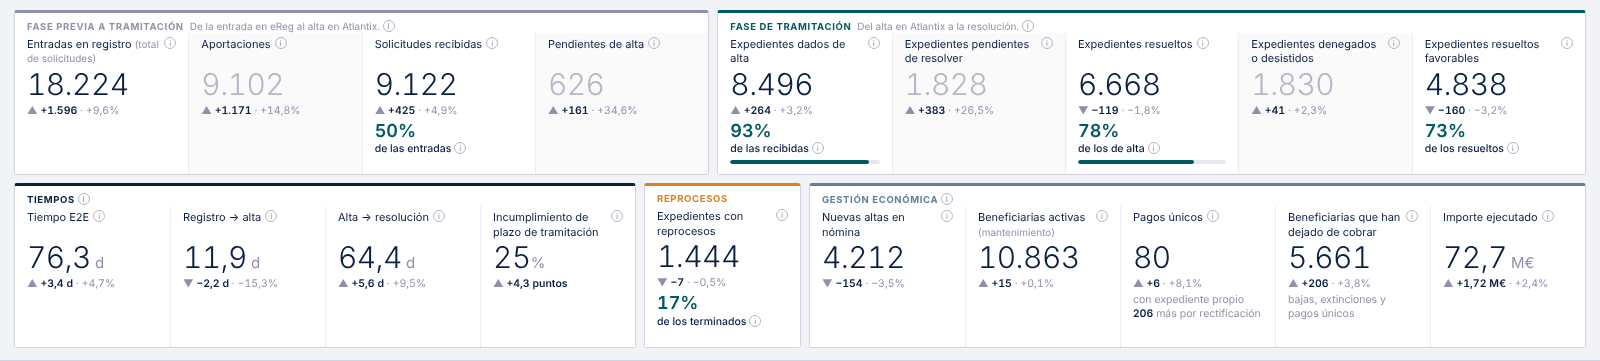
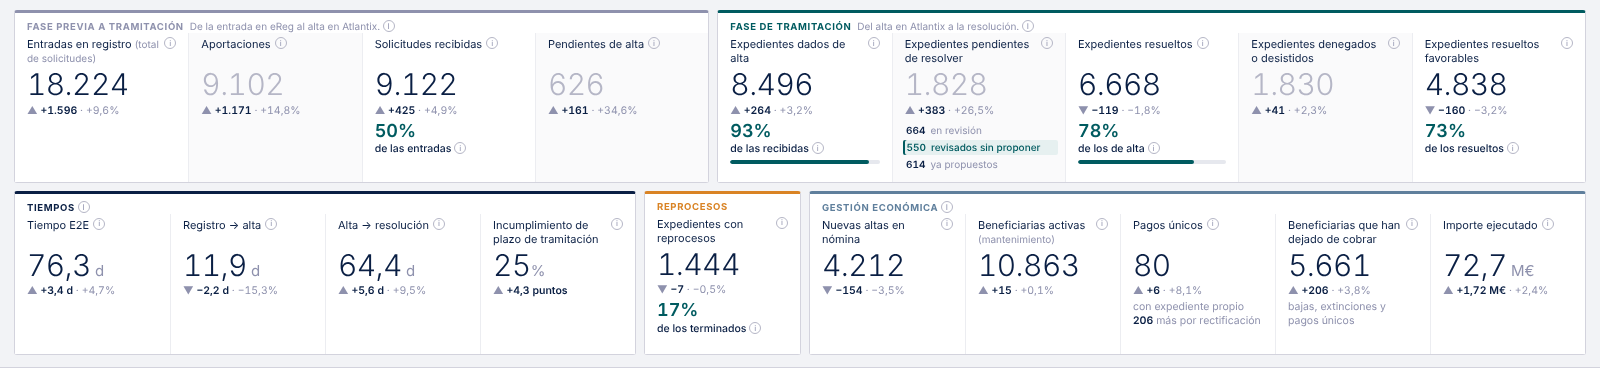
Mockup natalidad v23: pendientes de resolver en tres grupos
- Cabecera: en revisión, revisados de conformidad sin proponer (destacado) y ya propuestos;
  el aviso del grupo destacado da la foto a la fecha de corte y lo que costaría proponerlos
  todos en la próxima nómina; al pulsarlo se abre la tabla de expedientes sin actividad filtrada
- Explorador de procesos y comparativa de periodos con los mismos tres grupos
- Hoja de validación al día; cabecera de la tabla sin actividad en dos filas

Claude-Session: https://claude.ai/code/session_012PCcGQXYr4PR8xb2pBrhox

diff --git a/mockups/MockupNatalidad_v23.html b/mockups/MockupNatalidad_v23.html
@@ -1357,6 +1357,19 @@ table.eco-t tr.sub td{font-weight:600;border-top:1px solid #E3E5EB;}
 .tbl-hdr .susp-ctl .resp-tabs{margin-left:0;}
 .tag-ley{display:inline-block;margin-left:6px;font-size:9.5px;font-weight:700;color:#8A5200;background:#FFF4E5;border:1px solid #F3D9B1;border-radius:2px;padding:0 5px;white-space:nowrap;}
 #tSusp td.mh{color:var(--cgy);font-size:10.5px;margin-left:3px;}
+/* pendientes de resolver en tres grupos */
+.kt-gr{margin-top:6px;display:flex;flex-direction:column;gap:2px;font-size:10px;line-height:1.3;color:var(--cgy);}
+.kt-gr .r{display:grid;grid-template-columns:var(--nw, 28px) 1fr;column-gap:5px;align-items:baseline;padding:1px 5px 1px 2px;margin:0 -5px 0 -2px;border-radius:2px;}
+.kt-gr .r b{font-weight:600;color:var(--cnavy);font-variant-numeric:tabular-nums;text-align:right;}
+.kt-gr .r.on{background:#E6F0F0;color:var(--cteal);font-weight:500;cursor:pointer;box-shadow:inset 2px 0 0 var(--cteal);}
+.kt-gr .r.on b{color:var(--cteal);}
+.kt-gr .r.on:hover{background:#D6E8E8;}
+table.cmp-t tr.sub td.nm{padding-left:22px;color:var(--cgy);}
+table.cmp-t tr.sub td{font-size:11px;}
+.pg-p.on{fill:var(--cteal);font-weight:500;}
+#tblSusp .tbl-hdr{display:grid;grid-template-columns:minmax(0,1fr) auto;align-items:center;row-gap:8px;}
+#tblSusp .tbl-hdr .susp-ctl{grid-column:1 / -1;grid-row:2;margin-left:0;justify-content:flex-start;}
+#tblSusp #suspCSV{grid-column:2;grid-row:1;}
 </style>
 </head>
 <body>
@@ -2085,6 +2098,10 @@ function sitOf(c, i, T){
   return 'ge1';
 }
 const respOf = (c, i, s) => SIT[s].r;
+/* grupos de «Expedientes pendientes de resolver» (reunión del 27/10): en revisión o requerimiento, revisados de
+   conformidad sin proponer y ya propuestos (terceros, Intervención o firma) */
+const grupoSit = s => s === 'rok' || s === 'rokU' ? 'rok' : SIT[s].f === 'ges' || SIT[s].f === 'ent' ? 'rev' : 'prop';
+const grupoPend = c => grupoSit(sitOf(c, idxAt(c, P1), P1));
 /* nómina en la que la última propuesta favorable hasta el evento i propone pagar */
 const nPropAt = (c, i) => { for (let j = i; j >= 0; j--) if (c.a[j] === 'PF') return c.x[j]; return c.nProp; };
 /* D_COM positivo de un alta: gestión económica lo hace tras la resolución, a final del mes anterior a su primera nómina */
@@ -2164,7 +2181,11 @@ function calcCabecera(){
   const K = { rec:0, recPrev:0, apo:0, com:0, gen:0, dupT:0, anu:0, ent:0, entOld:0, ges:0, req:0, pf:0,
     pfImp:{atr:0, mes:0, resto:0}, pfMes:{}, pfN:{}, fav:0, favCau:{nom:0, ter:0, adm:0, cre:0}, susp:0, abiertos:0, abiertos0:0,
     ant:null, res:{con:0, den:0, des:0}, fin:0, e2e:[], tram:[], pp:0, ppOk:0, superan:0,
-    tramit:0, retr:0, rReq:0, rTer:0, rInt:0, nat:0, dupC:0, pdte:0, alta:0, resC:0, dd:0, favC:0, favPag:0, tA:[] };
+    tramit:0, retr:0, rReq:0, rTer:0, rInt:0, nat:0, dupC:0, pdte:0, alta:0, resC:0, dd:0, favC:0, favPag:0, tA:[],
+    curG:{rev:0, rok:0, prop:0},
+    /* revisados sin proponer a la fecha de corte, sean de la solicitud que sean, y lo que costaría proponerlos todos en la
+       primera nómina a la que aún pueden llegar (el fichero de terceros se genera el día 7 del mes anterior) */
+    rok:{n:0, q:0, n30:0, fuera:0, atr:0, mes:0, Nn:dateOf(P1).getUTCDate() < 7 ? ymOf(P1) + 1 : ymOf(P1) + 2} };
   for (const c of VIS){ if (!okc(c)) continue;
     if (c.fin !== undefined && c.fin < Q0) continue;            /* cerrado antes de todo lo que se mira */
     if (enP(c.reg)) K.rec++; else if (c.reg >= Q0 && c.reg < P0) K.recPrev++;
@@ -2174,6 +2195,7 @@ function calcCabecera(){
       else { K.nat++;
         if (!(c.alta <= P1)) K.pdte++;
         else { K.alta++;
+          if (!(c.resol <= P1)) K.curG[grupoPend(c)]++;
           if (c.resol <= P1){ K.resC++; if (c.res === 'con'){ K.favC++; if (c.fin <= P1){ K.favPag++; if (c.unico) K.unCoh = (K.unCoh || 0) + 1; else { K.altaNom = (K.altaNom || 0) + 1; K.atrMesCoh = (K.atrMesCoh || 0) + c.P - c.D; } } } else { K.dd++; if (c.res === 'den') K.denC = (K.denC || 0) + 1; else K.desC = (K.desC || 0) + 1; } } } }
     }
     if (c.resol !== undefined && enP(c.resol)){ K.tA.push(c.alta - c.reg); if (c.resol - c.reg > F.plazo) K.fuera = (K.fuera || 0) + 1; }
@@ -2190,6 +2212,8 @@ function calcCabecera(){
           const x = costeNomina(c, np, Math.floor(np/12)*12 + 11); K.pfImp.atr += x.atr; K.pfImp.mes += x.mes; K.pfImp.resto += x.resto;
           K.pfMes[np] = (K.pfMes[np] || 0) + x.atr + x.mes + x.resto; K.pfN[np] = (K.pfN[np] || 0) + 1; } }
       const quieto = P1 - c.t[i], edad = P1 - c.reg;
+      if (grupoSit(s) === 'rok'){ const r = K.rok, x = costeNomina(c, r.Nn, r.Nn);
+        r.n++; r.q += quieto; if (quieto > 30) r.n30++; if (s === 'rokU') r.fuera++; r.atr += x.atr; r.mes += x.mes; }
       if (quieto > F.umbral) K.susp++;
       if (!K.ant || edad > K.ant.edad) K.ant = { c, edad, quieto, f, s };
       if (!(c.pp <= P1) && edad > F.plazo) K.superan++;
@@ -2538,12 +2562,12 @@ function nominaPeriodo(NM_){
 /* valor numérico de cada indicador de la cabecera */
 function valores(K, NM_){
   const o = nominaPeriodo(NM_), resT = K.e2e.length;
-  return { ent:K.nat + K.otros + K.dupC, apo:K.otros + K.dupC, nat:K.nat, pdte:K.pdte, alta:K.alta, cur:K.alta - K.resC, resC:K.resC, dd:K.dd, favC:K.favC,
+  return { ent:K.nat + K.otros + K.dupC, apo:K.otros + K.dupC, nat:K.nat, pdte:K.pdte, alta:K.alta, cur:K.alta - K.resC, curRev:K.curG.rev, curRok:K.curG.rok, curProp:K.curG.prop, resC:K.resC, dd:K.dd, favC:K.favC,
     e2e:resT ? media(K.e2e) : null, tA:K.tA.length ? media(K.tA) : null, tram:K.tram.length ? media(K.tram) : null,
     fuera:resT ? pc(K.fuera || 0, resT) : null, retr:K.retr, retrP:K.tramit ? pc(K.retr, K.tramit) : null,
     altaNom:K.altaNom || 0, ben:o.nb ? o.nb.ben : null, unCoh:K.unCoh || 0, rects:o.rects, dejan:o.nb ? o.inact + o.unicos : null, ejec:o.ejec };
 }
-const FMT = { ent:'n', apo:'n', nat:'n', pdte:'n', alta:'n', cur:'n', resC:'n', dd:'n', favC:'n', e2e:'d', tA:'d', tram:'d', fuera:'p', retr:'n', retrP:'p',
+const FMT = { ent:'n', apo:'n', nat:'n', pdte:'n', alta:'n', cur:'n', curRev:'n', curRok:'n', curProp:'n', resC:'n', dd:'n', favC:'n', e2e:'d', tA:'d', tram:'d', fuera:'p', retr:'n', retrP:'p',
   altaNom:'n', ben:'n', unCoh:'n', rects:'n', dejan:'n', ejec:'e' };
 const fmtV = (k, v) => v === null || v === undefined ? '—' : FMT[k] === 'd' ? f1(v) + ' d' : FMT[k] === 'p' ? f1(v) + '%' : FMT[k] === 'e' ? f1(v/1e6) + ' M€' : nf(v);
 /* diferencia: en número y en % (en puntos si el indicador ya es un %) */
@@ -2594,6 +2618,15 @@ function renderCabecera(K, NM_, X){
   /* los avisos (i) son la chuleta de la reunión: qué es, cómo se calcula, cómo se lee la cifra de ahora y de dónde sale */
   const L = (...l) => l.filter(Boolean).join('\n');
   const resT = K.e2e.length, fuera = K.fuera || 0, mesB = mB !== undefined ? ymLargo(mB) : '';
+  const G3 = K.curG, rk = K.rok;
+  const tipRok = L('Qué es: expedientes de «Gestión Expediente» ya revisados de conformidad que todavía no se han propuesto a nómina. La unidad elige cada mes cuáles entran en la propuesta, según el crédito y la carga de trabajo.',
+    rk.n ? `Ahora: ${nf(rk.n)} a la fecha de corte, contando también los de solicitudes anteriores al periodo. Llevan de media ${f0(rk.q/rk.n)} días desde la revisión y ${nf(rk.n30)} más de 30 días; ${nf(rk.fuera)} ya se quedaron fuera de la última propuesta.` : 'Ahora: ninguno a la fecha de corte.',
+    rk.n ? `Si se proponen todos: en la nómina de ${ymLargo(rk.Nn)}, ${eur(rk.atr)} de atrasos y ${eur(rk.mes)} de primera mensualidad, ${eur(rk.atr + rk.mes)} en total; después, ${eur(rk.mes)} más cada mes. Cuánto cabe está en «Gestión económica · A corto plazo».` : '',
+    'Cómo leerlo: pulsa para verlos en «Expedientes sin actividad», con sus días sin actuación y sus atrasos.',
+    'Fuente: hoy solo constan en el Excel de cada tramitador. Para contarlos con datos reales, Atlantix tiene que registrar la revisión con su fecha: con la etapa «Propuesta favorable» o con una marca «revisado de conformidad» (lo decide la unidad).');
+  const grupos = `<div class="kt-gr" style="--nw:${Math.max(...[G3.rev, G3.rok, G3.prop].map(v => nf(v).length)) + .3}ch"><div class="r"><b>${nf(G3.rev)}</b><span>en revisión</span></div>` +
+    `<div class="r on" data-t="${esc(tipRok)}"><b>${nf(G3.rok)}</b><span>revisados sin proponer</span></div>` +
+    `<div class="r"><b>${nf(G3.prop)}</b><span>ya propuestos</span></div></div>`;
   const V = [
     { k:'ent', l:'Entradas en registro <em class="kt-sub">(total de solicitudes)</em>', v:nf(total), tip:L(
       'Qué es: todo lo que entra por el registro electrónico (eReg) para esta ayuda en el periodo: las solicitudes y cualquier otro escrito. En registro se llaman «entradas».',
@@ -2629,11 +2662,12 @@ function renderCabecera(K, NM_, X){
         'Cómo se calcula: solicitudes recibidas con expediente dado de alta antes de la fecha de corte.',
         `Cómo leerlo: se reparten en expedientes pendientes de resolver (${nf(K.alta - K.resC)}) y resueltos (${nf(K.resC)}).`,
         'Fuente: Atlantix.') },
-    { k:'cur', l:'Expedientes pendientes de resolver', v:nf(K.alta - K.resC), side:1, tip:L(
+    { k:'cur', l:'Expedientes pendientes de resolver', v:nf(K.alta - K.resC), side:1, grp:grupos, tip:L(
       'Qué es: expedientes dados de alta que todavía no tienen resolución. Son los que están en trámite ahora mismo.',
-      'Cómo se calcula: expedientes dados de alta − expedientes resueltos.',
-      'Cómo leerlo: están en gestión del expediente (incluidos los requerimientos y los ya revisados de conformidad que aún no se han propuesto a nómina), en validación de terceros, en la Intervención o pendientes de firmar la resolución. El reparto por fase está en «Stock pendiente» y en el explorador de procesos; los parados más de 30 días, en «Expedientes sin actividad».',
-      'Fuente: Atlantix.') },
+      'Cómo se calcula: expedientes dados de alta − expedientes resueltos. Se reparten en tres grupos según dónde está cada uno a la fecha de corte.',
+      `Ahora: ${nf(G3.rev)} en revisión (primera revisión, devueltos a revisión o con requerimiento); ${nf(G3.rok)} revisados de conformidad que aún no se han propuesto a nómina; y ${nf(G3.prop)} ya propuestos, en validación de terceros, en la Intervención o pendientes de firmar la resolución.`,
+      'Cómo leerlo: el grupo destacado es el que espera a la unidad: ya está revisado y falta incluirlo en una propuesta. Al pasar el ratón por él se ve cuánto costaría proponerlos todos; al pulsarlo, la lista. El reparto por fase está en «Stock pendiente» y en el explorador de procesos; los parados más de 30 días, en «Expedientes sin actividad».',
+      'Fuente: Atlantix. Los revisados sin proponer, cuando Atlantix registre la revisión de conformidad (etapa o marca, a decidir).') },
     { k:'resC', l:'Expedientes resueltos', v:nf(K.resC), p:pc(K.resC, K.alta), pl:'de los de alta', bar:1,
       pt:L('Qué es: de lo que ha entrado en tramitación, cuánto está ya resuelto.', `Cómo se calcula: expedientes resueltos ÷ expedientes dados de alta = ${nf(K.resC)} ÷ ${nf(K.alta)}.`,
         'Cómo leerlo: con un año de periodo es normal no llegar al 100%: lo último que entró aún se está tramitando.'),
@@ -2719,7 +2753,7 @@ function renderCabecera(K, NM_, X){
     return x ? `<div class="kt-cmp" data-tip="${esc(tip)}">${x.fl} <b>${x.n}</b>${x.p ? ' · ' + x.p : ''}</div>` : `<div class="kt-cmp" data-tip="${esc(tip)}">sin dato para comparar</div>`; };
   const tile = (o, ini, fin) => `<div class="kt${o.side ? ' side' : ''}${ini ? ' kl' : ''}${fin ? ' kr' : ''}">` +
     `<div class="kt-l"><span>${o.l}</span> <i class="ii" data-t="${esc(o.tip)}">i</i></div><div class="kt-v"><span>${o.v}</span></div>` + cmpL(o) +
-    (o.sub ? `<div class="kt-s">${o.sub}</div>` : '') +
+    (o.sub ? `<div class="kt-s">${o.sub}</div>` : '') + (o.grp || '') +
     (o.pl ? `<div class="kt-pc"><b>${pcs(o.p, 0)}</b><span class="kt-pl">${o.pl} <i class="ii" data-t="${esc(o.pt)}">i</i></span></div><div class="kt-bar"${o.bar ? '' : ' style="visibility:hidden"'}><i style="width:${o.bar ? Math.min(100, o.p).toFixed(1) : 0}%"></i></div>` : '') + `</div>`;
   /* cinco bloques, como los separa el Excel de Javi: antes del alta, tramitación, tiempos, reprocesos y gestión económica */
   const G = [[['pre', 'Fase previa a tramitación', 'De la entrada en eReg al alta en Atlantix.', V.slice(0, 4), 'Lo que pasa antes de que exista el expediente: lo que entra por registro (eReg) y las solicitudes que esperan a que se les cree expediente. Son las del periodo vistas a la fecha de corte.\nCómo leerlo: es un embudo. Cada tarjeta gris es lo que se queda en ese paso; sumada a la blanca de su derecha da la anterior.'],
@@ -3158,7 +3192,8 @@ function remesasPagadas(){ let m = ymOf(P1); while (ymDay(m, 27) + .5 > P1) m--;
 
 /* ════════ PESTAÑA · COMPARATIVA DE PERIODOS ════════ */
 const CMP_FILAS = [['Fase previa a tramitación', [['ent','Entradas en registro'], ['apo','Aportaciones'], ['nat','Solicitudes recibidas'], ['pdte','Pendientes de alta']]],
-  ['Fase de tramitación', [['alta','Expedientes dados de alta'], ['cur','Expedientes pendientes de resolver'], ['resC','Expedientes resueltos'], ['dd','Expedientes denegados o desistidos'], ['favC','Expedientes resueltos favorables']]],
+  ['Fase de tramitación', [['alta','Expedientes dados de alta'], ['cur','Expedientes pendientes de resolver'], ['curRev','en revisión o requerimiento',1], ['curRok','revisados de conformidad sin proponer',1],
+    ['curProp','propuestos sin resolver',1], ['resC','Expedientes resueltos'], ['dd','Expedientes denegados o desistidos'], ['favC','Expedientes resueltos favorables']]],
   ['Tiempos', [['e2e','Tiempo E2E'], ['tA','Registro → alta'], ['tram','Alta → resolución'], ['fuera','Incumplimiento de plazo de tramitación']]],
   ['Reprocesos', [['retr','Expedientes con reprocesos'], ['retrP','% de los terminados con reprocesos']]],
   ['Gestión económica', [['altaNom','Nuevas altas en nómina'], ['ben','Beneficiarias activas (mantenimiento)'], ['unCoh','Pagos únicos con expediente propio'],
@@ -3178,9 +3213,9 @@ function renderComparativa(){
       (CMP.corto ? ' · los datos empiezan el 01/01/2022: el periodo de comparación está incompleto' : '') + ' · con los mismos filtros de año, tipo y canal.';
     let h = `<thead><tr><th>Indicador</th><th>${pa}</th><th>${pb}</th><th>Diferencia</th><th>Variación</th></tr></thead><tbody>`;
     CMP_FILAS.forEach(([g, fs]) => { h += `<tr class="grp"><td colspan="5">${g}</td></tr>`;
-      fs.forEach(([k, n]) => { const x = dif(k, X[k], CMP.X[k]);
-        h += `<tr><td class="nm">${n}</td><td>${fmtV(k, X[k])}</td><td>${fmtV(k, CMP.X[k])}</td>${celdaDif(x)}</tr>`;
-        cmpT1.push([g, n, fmtV(k, X[k]), fmtV(k, CMP.X[k]), x ? x.n : '', x && x.p ? x.p : '']); }); });
+      fs.forEach(([k, n, sub]) => { const x = dif(k, X[k], CMP.X[k]);
+        h += `<tr${sub ? ' class="sub"' : ''}><td class="nm">${n}</td><td>${fmtV(k, X[k])}</td><td>${fmtV(k, CMP.X[k])}</td>${celdaDif(x)}</tr>`;
+        cmpT1.push([g, sub ? 'Expedientes pendientes de resolver: ' + n : n, fmtV(k, X[k]), fmtV(k, CMP.X[k]), x ? x.n : '', x && x.p ? x.p : '']); }); });
     t1.innerHTML = h + '</tbody>';
   }
   renderEvolucion();
@@ -3265,7 +3300,7 @@ const HOJA = [
  ['1','Nº solicitudes recibidas en eReg','Solicitudes iniciales con asiento en eReg en el periodo; sin aportaciones, comunicaciones, duplicados técnicos ni anulados.','Registros de eReg con formulario de solicitud y fecha de asiento en el periodo, uno por número de registro.','eReg','Cabecera · Solicitudes recibidas','ereg'],
  ['1','Otros registros','Lo excluido en la fila anterior debe contarse como indicador aparte.','Registros de eReg del periodo que no son solicitud inicial, por tipo; incluye las genéricas sin formulario, que hoy no se pueden clasificar.','eReg','Cabecera · Aportaciones','ereg'],
  ['1','Nº solicitudes pendientes de recepción o alta en Atlantix','Registradas en eReg que a la fecha de corte no constan dadas de alta o vinculadas a un expediente.','Solicitudes de eReg que siguen en la bandeja de registros de Atlantix sin expediente dado de alta, y cuánto lleva la más antigua.','eReg + Atlantix','Cabecera · Pendientes de alta; Stock por fase (Entrada)','ereg'],
- ['1','Nº expedientes en tramitación','Activos en «Gestión de expedientes», por subestado: revisión, requerimiento, subsanación, propuesta o incidencia.','Expedientes en las etapas «Gestión Expediente» y «Requerimiento» (en Atlantix es una etapa propia), por situación: primera revisión, devuelto a revisión, revisado de conformidad sin proponer a nómina, requerimiento sin notificar, en plazo, con plazo vencido y aportación sin validar.','Atlantix + NOTE','Tiempo y expedientes por fase; Stock por fase (Gestión del expediente)','val'],
+ ['1','Nº expedientes en tramitación','Activos en «Gestión de expedientes», por subestado: revisión, requerimiento, subsanación, propuesta o incidencia.','Expedientes en las etapas «Gestión Expediente» y «Requerimiento» (en Atlantix es una etapa propia), por situación: primera revisión, devuelto a revisión, revisado de conformidad sin proponer a nómina, requerimiento sin notificar, en plazo, con plazo vencido y aportación sin validar. En la cabecera, los pendientes de resolver se separan en revisión o requerimiento, revisados de conformidad sin proponer y propuestos (27/10); los revisados necesitan que Atlantix registre la revisión, con etapa o con marca (a decidir).','Atlantix + NOTE','Cabecera · Expedientes pendientes de resolver (tres grupos); Tiempo y expedientes por fase; Stock por fase (Gestión del expediente)','val'],
  ['1','Propuestas favorables (etapa PF) e importe','Por convocatoria y mes; importe de atrasos (×500 €) desde la solicitud, mes de nómina y resto del año hasta el fin de devengo. Evitar proponer y desproponer.','La propuesta favorable no es una etapa: al grabarla, AEFN calcula los pagos propuestos y pasa el expediente a «Validación Tercero». Se cuentan las que aún no tienen resolución; el importe es la suma de sus pagos propuestos para el año, por mes de nómina.','Atlantix (AEFN)','Gestión económica · A corto plazo (propuesto en Atlantix, sin D, por anualidad)','val'],
  ['1','Nº expedientes resueltos','Concedidos, denegados, desistidos y archivados por fecha de resolución; etapa «validación terceros», a validar.','Por la fecha de las etapas «Resolución Favorable Concesión», «Resolución Denegación» y «Resolución Desestimiento». La favorable llega después de la Intervención, no al pasar a «Validación Tercero».','Atlantix','Cabecera · Expedientes resueltos, denegados o desistidos y resueltos favorables; Composición (sentido)','val'],
  ['1','% de expedientes resueltos en plazo','90 días máximo desde la entrada en el registro de la DG hasta la propuesta de pago; revisar las normas reguladoras.','Se muestra al revés, como incumplimiento: % de los resueltos en el periodo con (resolución − registro) por encima del plazo. El plazo es un parámetro de la barra de filtros (90 días de inicio).','eReg + Atlantix','Cabecera · Incumplimiento de plazo de tramitación','ereg'],
@@ -3483,8 +3518,13 @@ function initUI(){
   /* etapa de Atlantix (con los revisados de conformidad aparte) y umbral de días sin actuación */
   const ets = [...new Set(SIT_ORD.map(k => SIT[k].e))];
   document.getElementById('suspEtapa').innerHTML = `<option value="">Todas</option>` + ets.map(e => `<option value="${esc(e)}">${e}</option>` +
-    (e === 'Gestión Expediente' ? `<option value="rok">· revisados de conformidad sin proponer</option>` : '')).join('');
+    (e === 'Gestión Expediente' ? `<option value="rok">· revisados sin proponer</option>` : '')).join('');
   document.getElementById('suspEtapa').addEventListener('change', e => { suspEtapa = e.target.value; renderSusp(); });
+  document.getElementById('kg').addEventListener('click', e => {
+    if (!e.target.closest('.kt-gr .r.on')) return;
+    suspEtapa = 'rok'; document.getElementById('suspEtapa').value = 'rok'; renderSusp();
+    const t = document.getElementById('tblSusp'); if (t.offsetParent) t.scrollIntoView({ behavior:'smooth', block:'start' });
+  });
   document.getElementById('suspUmbral').addEventListener('change', e => { F.umbral = +e.target.value; renderSusp(); });
   document.getElementById('actDim').addEventListener('change', renderAct);
   /* gestión económica: por anualidad o por línea, y qué líneas y anualidades */
@@ -3514,9 +3554,9 @@ function initUI(){
     HOJA.forEach((r, i) => { hSave(hKey(i, 'v'), ''); hSave(hKey(i, 'o'), ''); }); renderHoja(); });
   /* avisos (i): una caja que se coloca dentro de la pantalla y separa «Qué es», «Cómo se calcula», «Cómo leerlo», «Ahora» y «Fuente» */
   const iib = document.createElement('div'); iib.className = 'iibox'; document.body.appendChild(iib);
-  const ETQ = /^(Qué es|Cómo se calcula|Cómo leerlo|Cómo funciona la ayuda|Ahora|Fuente|Ojo|Cuándo pasa|Por qué importa):\s*/;
+  const ETQ = /^(Qué es|Cómo se calcula|Cómo leerlo|Cómo funciona la ayuda|Ahora|Fuente|Ojo|Cuándo pasa|Por qué importa|Si se proponen todos):\s*/;
   document.addEventListener('mouseover', e => {
-    const el = e.target.closest && e.target.closest('.ii[data-t]');
+    const el = e.target.closest && e.target.closest('.ii[data-t], .kt-gr .r[data-t]');
     if (!el){ iib.classList.remove('on'); return; }
     iib.innerHTML = el.dataset.t.split('\n').filter(l => l.trim()).map(l => { const m = l.match(ETQ);
       return `<p>${m ? `<b>${m[1]}:</b> ${esc(l.slice(m[0].length))}` : esc(l)}</p>`; }).join('');
@@ -3559,7 +3599,7 @@ let pxListo = false, PXG = null;
 
 /* solicitudes iniciales del periodo y hasta qué fase han llegado a la fecha de corte */
 function pxCalc(){
-  const S = { ini:0, pdte:0, alta:0, ter:0, int:0, fav:0, pag:0, den:{ges:0, ter:0, int:0}, cur:{ges:0, ter:0, int:0}, ahora:{ges:0, ter:0, int:0, res:0}, devTer:0, devInt:0 };
+  const S = { ini:0, pdte:0, alta:0, ter:0, int:0, fav:0, pag:0, den:{ges:0, ter:0, int:0}, cur:{ges:0, ter:0, int:0}, ahora:{ges:0, ter:0, int:0, res:0}, grp:{rev:0, rok:0, prop:0}, devTer:0, devInt:0 };
   for (const c of VIS){ if (!okc(c) || !enP(c.reg) || (c.res === 'dup' && c.fin <= P1)) continue;
     S.ini++;
     if (!(c.alta <= P1)){ S.pdte++; continue; }
@@ -3572,7 +3612,7 @@ function pxCalc(){
     if (c.a.slice(0, last + 1).includes('VGE')) S.devInt++;
     const hasta = int ? 'int' : ter ? 'ter' : 'ges';
     if (c.resol <= P1){ if (c.res === 'con'){ S.fav++; if (c.fin <= P1) S.pag++; } else S.den[hasta]++; }
-    else { S.cur[hasta]++; const f = SIT[sitOf(c, last, P1)].f; S.ahora[f in S.ahora ? f : 'ges']++; }
+    else { S.cur[hasta]++; const s = sitOf(c, last, P1), f = SIT[s].f; S.ahora[f in S.ahora ? f : 'ges']++; S.grp[grupoSit(s)]++; }
   }
   S.denT = S.den.ges + S.den.ter + S.den.int;
   return S;
@@ -3585,14 +3625,18 @@ function pxBuild(){
   const tA = K.tA && K.tA.length ? f1(media(K.tA)) + ' d de media hasta el alta' : '';
   const res = S.fav + S.denT, cur = S.cur.ges + S.cur.ter + S.cur.int;
   PXG = { S, apo, ent, res, cur };
+  /* pie en filas (cifra a la derecha); la marcada, destacada. La caja crece lo que haga falta */
+  const filas = (x, y, F) => F.map(([t, n, on], k) => { const yy = y + 74 + k*17;
+    return (on ? `<rect x="${x + 10}" y="${yy - 12}" width="${PW - 20}" height="16" rx="2" fill="#E6F0F0"/>` : '') +
+      `<text class="pg-p${on ? ' on' : ''}" x="${x + 18}" y="${yy}">${t}</text><text class="pg-p${on ? ' on' : ''}" x="${x + PW - 14}" y="${yy}" text-anchor="end">${nf(n)}</text>`; }).join('');
   const caja = (id, cx, y, tit, n, sub, pie, tipo) => {
-    const x = cx - PW/2, col = { den:PG.red, fav:PG.teal, pend:PG.gris }[tipo] || PG.navy;
-    return `<g class="pgn" data-id="${id}"><rect x="${x}" y="${y}" width="${PW}" height="${PH}" rx="4" fill="#fff" stroke="${PG.borde}"/>` +
-      `<rect x="${x}" y="${y}" width="4" height="${PH}" rx="2" fill="${col}"/>` +
+    const x = cx - PW/2, col = { den:PG.red, fav:PG.teal, pend:PG.gris }[tipo] || PG.navy, h = Array.isArray(pie) ? PH + (pie.length - 1)*17 + 6 : PH;
+    return `<g class="pgn" data-id="${id}"><rect x="${x}" y="${y}" width="${PW}" height="${h}" rx="4" fill="#fff" stroke="${PG.borde}"/>` +
+      `<rect x="${x}" y="${y}" width="4" height="${h}" rx="2" fill="${col}"/>` +
       `<text class="pg-t" x="${x + 18}" y="${y + 23}">${tit}</text>` +
       `<text class="pg-n" x="${x + 18}" y="${y + 54}" fill="${tipo === 'pend' ? PG.gris : PG.navy}">${nf(n)}</text>` +
       (sub ? `<text class="pg-s" x="${x + PW - 14}" y="${y + 54}" text-anchor="end">${sub}</text>` : '') +
-      (pie ? `<text class="pg-p" x="${x + 18}" y="${y + 74}">${pie}</text>` : '') + `</g>`;
+      (Array.isArray(pie) ? filas(x, y, pie) : pie ? `<text class="pg-p" x="${x + 18}" y="${y + 74}">${pie}</text>` : '') + `</g>`;
   };
   /* rama: de la madre baja, se abre en horizontal y cae en cada hija */
   const rama = (cx, y) => { const ym = y + PH + (PY - PH)/2, yh = y + PY;
@@ -3609,7 +3653,7 @@ function pxBuild(){
   g += caja('pdte', x(1) - PD, y(2), 'Pendientes de alta', S.pdte, de(S.pdte, S.ini, 'de las recibidas'), 'Sin expediente en Atlantix', 'pend');
   g += caja('alta', x(2), y(2), 'Expedientes dados de alta', S.alta, de(S.alta, S.ini, 'de las recibidas'), tA, 'ini');
   g += caja('cur', x(2) - PD, y(3), 'Expedientes pendientes de resolver', cur, de(cur, S.alta, 'de los de alta'),
-    `Gestión ${nf(S.ahora.ges)} · Terceros ${nf(S.ahora.ter)} · Interv. ${nf(S.ahora.int)}` + (S.ahora.res ? ` · Firma ${nf(S.ahora.res)}` : ''), 'pend');
+    [['En revisión o requerimiento', S.grp.rev], ['Revisados de conformidad, sin proponer', S.grp.rok, 1], ['Propuestos, sin resolver', S.grp.prop]], 'pend');
   g += caja('res', x(3), y(3), 'Expedientes resueltos', res, de(res, S.alta, 'de los de alta'), 'Con resolución firmada', 'ini');
   g += caja('den', x(3) - PD, y(4), 'Expedientes denegados o desistidos', S.denT, de(S.denT, res, 'de los resueltos'),
     `Gestión ${nf(S.den.ges)} · Terceros ${nf(S.den.ter)} · Interv. ${nf(S.den.int)}`, 'den');
@@ -3627,9 +3671,10 @@ function pxTipTxt(id){
     ini:['Solicitudes recibidas', r('Pendientes de alta', nf(S.pdte)) + r('Expedientes dados de alta', nf(S.alta)) + '<div class="kp">Es «Solicitudes recibidas» de la cabecera.</div>'],
     pdte:['Pendientes de alta', 'En la bandeja de registros de Atlantix, sin expediente a la fecha de corte.<div class="kp">Es «Pendientes de alta» de la cabecera.</div>'],
     alta:['Expedientes dados de alta', r('Pendientes de resolver', nf(cur)) + r('Resueltos', nf(res)) + '<div class="kp">Es «Expedientes dados de alta» de la cabecera.</div>'],
-    cur:['Expedientes pendientes de resolver', '<div class="t2">Dónde están ahora</div>' + r('En gestión del expediente', nf(S.ahora.ges)) + r('En validación de terceros', nf(S.ahora.ter)) + r('En la Intervención', nf(S.ahora.int)) +
+    cur:['Expedientes pendientes de resolver', '<div class="t2">Dónde están ahora</div>' + r('En revisión o requerimiento', nf(S.grp.rev)) + r('Revisados de conformidad, sin proponer', nf(S.grp.rok)) +
+      r('Propuestos, sin resolver', nf(S.grp.prop)) + '<div class="t2">De los propuestos</div>' + r('En validación de terceros', nf(S.ahora.ter)) + r('En la Intervención', nf(S.ahora.int)) +
       (S.ahora.res ? r('Pendientes de firmar la resolución', nf(S.ahora.res)) : '') +
-      '<div class="kp">Es «Expedientes pendientes de resolver» de la cabecera. El reparto es la fase en la que está cada uno hoy, con el mismo criterio que la línea del gráfico «Tiempo y expedientes por fase» (esa línea cuenta todo lo abierto, también lo registrado antes del periodo, y puede salir algo mayor).</div>'],
+      '<div class="kp">Es «Expedientes pendientes de resolver» de la cabecera, con los mismos tres grupos. Los revisados sin proponer ya están revisados de conformidad en «Gestión Expediente» y esperan entrar en una propuesta a nómina. El reparto es la fase en la que está cada uno hoy, con el mismo criterio que la línea del gráfico «Tiempo y expedientes por fase» (esa línea cuenta todo lo abierto, también lo registrado antes del periodo, y puede salir algo mayor).</div>'],
     res:['Expedientes resueltos', r('Denegados o desistidos', nf(S.denT)) + r('Resueltos favorables', nf(S.fav)) + '<div class="kp">Es «Expedientes resueltos» de la cabecera.</div>'],
     fav:['Expedientes resueltos favorables', r('Ya han cobrado (primer pago)', nf(S.pag)) + r('Esperan la nómina', nf(S.fav - S.pag)) + '<div class="kp">Es «Expedientes resueltos favorables» de la cabecera.</div>'],
     den:['Expedientes denegados o desistidos', r('Desde gestión del expediente', nf(S.den.ges)) + r('Tras llegar a validación de terceros', nf(S.den.ter)) + r('Tras llegar a la Intervención', nf(S.den.int)) +
